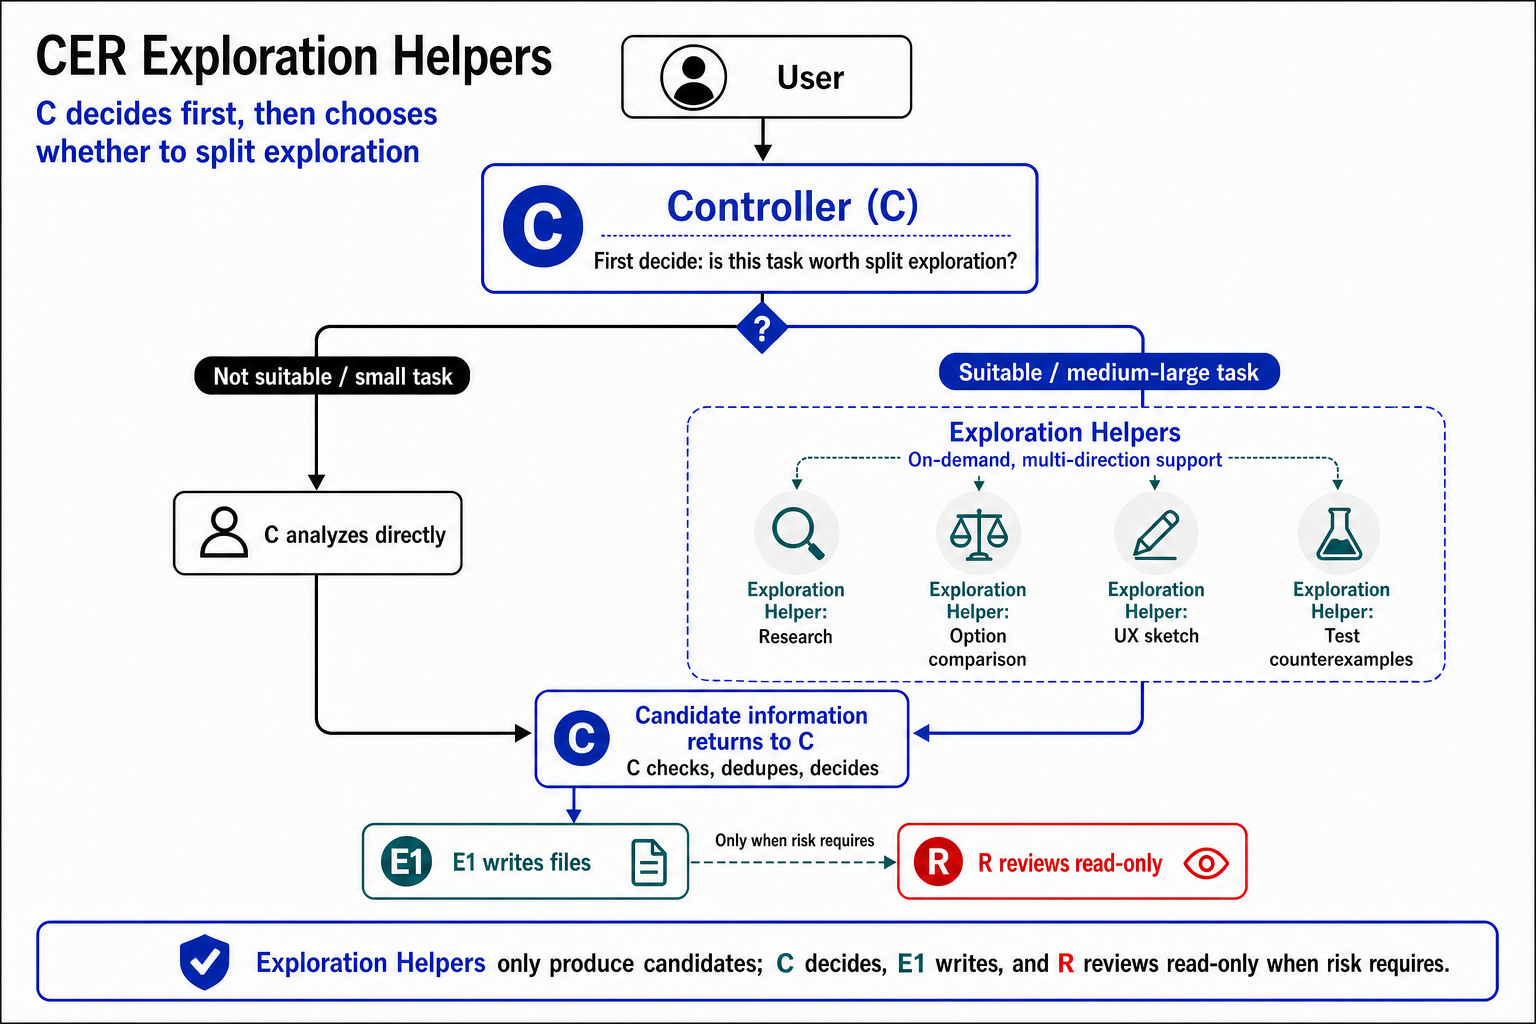
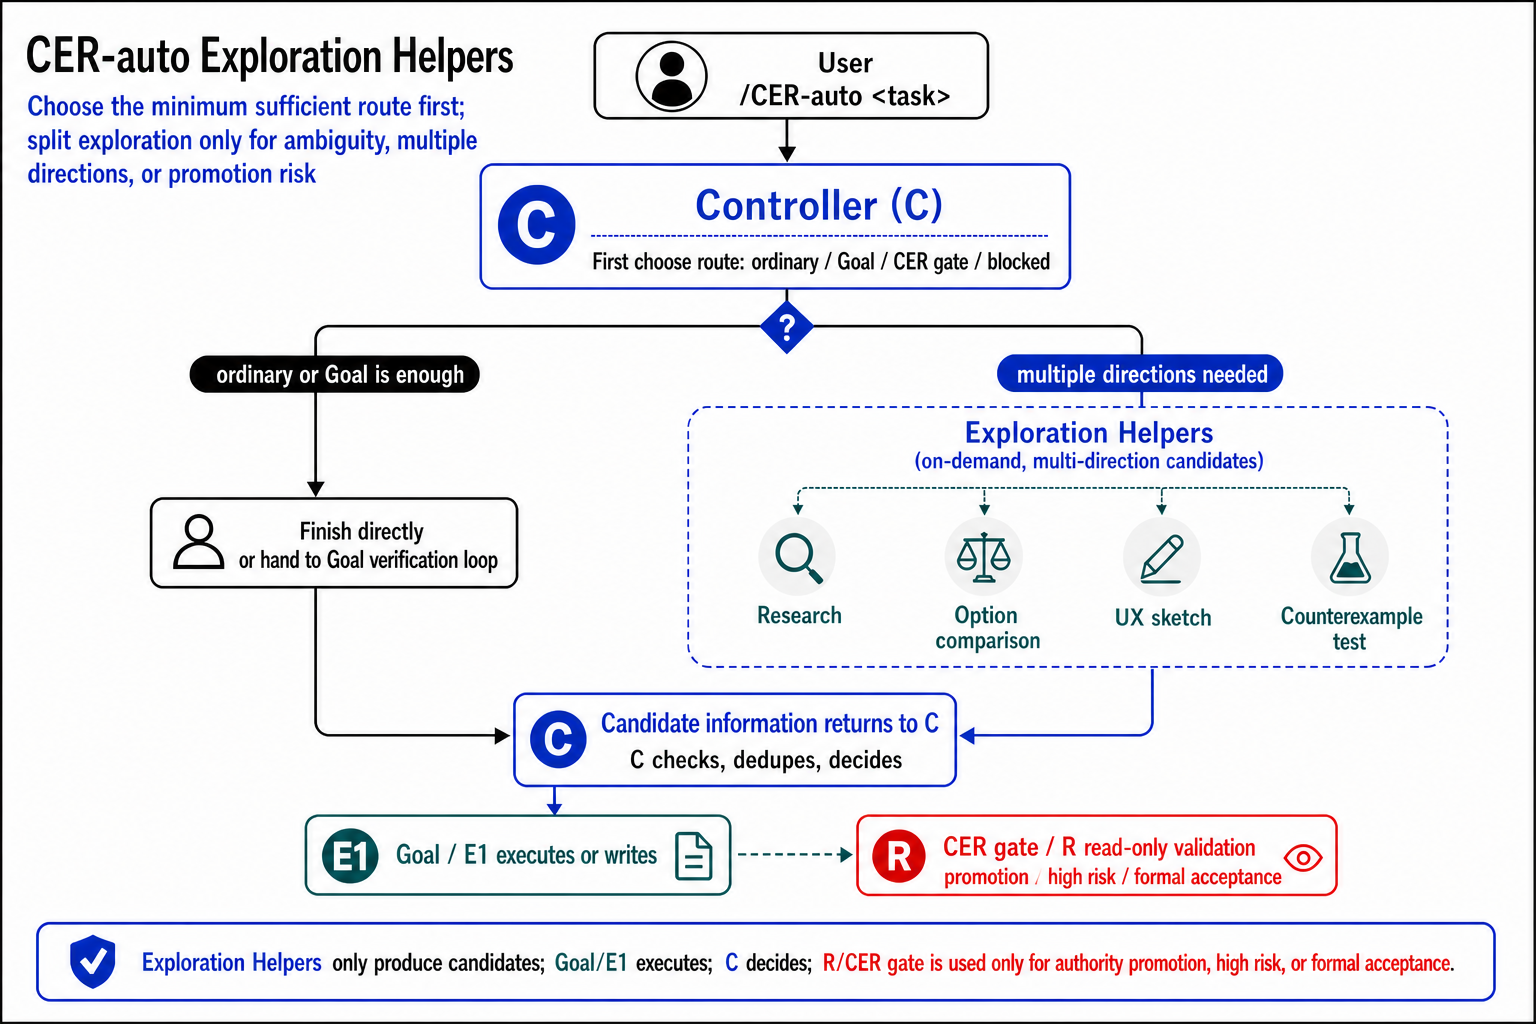
Release CER workflow v0.3.12

diff --git a/skills/cer-workflow-en/scripts/validate_cer_skill.py b/skills/cer-workflow-en/scripts/validate_cer_skill.py
@@ -51,6 +51,11 @@ EN_TRIGGER_MATRIX_EXPECTATIONS = {
     "auto_row": ("no C exists before the route decision", "Remote is unsupported in this first version"),
     "start_row": ("Plain start/work messages do not start CER",),
     "close_row": ("Plain close/finish messages do not close CER",),
+    "auto_help_template": (
+        "goal + constraints/do-not-do + acceptance + authority/source/authorization boundary",
+        "adapt it to the user's context rather than a fixed domain",
+        "before a formal decision, payment, publication, or external commitment, stop for a CER gate",
+    ),
     "startup_owner": ("Plain start/work messages belong to the target workspace's existing governance and are not CER triggers",),
     "stop_owner": ("Plain close/finish messages belong to the target workspace's existing governance and do not map to CER stop or close",),
     "uat_install_start": (
@@ -695,6 +700,12 @@ def trigger_matrix_findings(texts: dict[str, str]) -> list[str]:
             label,
             findings,
         )
+    assert_snippets_present(
+        markdown_section(skill, "## Commands"),
+        EN_TRIGGER_MATRIX_EXPECTATIONS["auto_help_template"],
+        "SKILL.md /CER-auto task template help",
+        findings,
+    )
     assert_snippets_present(
         markdown_section(core, "## Startup"),
         EN_TRIGGER_MATRIX_EXPECTATIONS["startup_owner"],

diff --git a/skills/cer-workflow/scripts/validate_cer_skill.py b/skills/cer-workflow/scripts/validate_cer_skill.py
@@ -51,6 +51,11 @@ ZH_TRIGGER_MATRIX_EXPECTATIONS = {
     "auto_row": ("路線裁決前不成立 C", "Remote 首版不支援"),
     "start_row": ("單獨 `開工` 不啟動 CER",),
     "close_row": ("單獨 `收工` 不觸發 CER close",),
+    "auto_help_template": (
+        "目標＋限制／不可做＋成功驗收＋權威來源／授權邊界",
+        "按使用者情境生成，不固定行業",
+        "如要作正式決策、付款、發布或外部承諾，先停下做 CER gate",
+    ),
     "startup_owner": ("單獨 `開工` 屬於目標 workspace 既有治理，不是 CER trigger",),
     "stop_owner": ("單獨 `收工` 屬於目標 workspace 既有治理，不映射為 CER stop 或 close",),
     "uat_install_start": (
@@ -695,6 +700,12 @@ def trigger_matrix_findings(texts: dict[str, str]) -> list[str]:
             label,
             findings,
         )
+    assert_snippets_present(
+        markdown_section(skill, "## 操作指令"),
+        ZH_TRIGGER_MATRIX_EXPECTATIONS["auto_help_template"],
+        "SKILL.md /CER-auto task template help",
+        findings,
+    )
     assert_snippets_present(
         markdown_section(core, "## 啟動"),
         ZH_TRIGGER_MATRIX_EXPECTATIONS["startup_owner"],

diff --git a/RELEASE_NOTES.en.md b/RELEASE_NOTES.en.md
@@ -5,6 +5,25 @@ has not entered an authorized release flow is explicitly marked as a candidate. 
 aborted, the affected content must be marked as candidate again or removed. Runtime authority
 remains the Skill references bundled with the version the user has installed.
 
+## v0.3.12
+
+This release turns the `/CER-auto` onboarding entrypoint and README visuals into a public-ready
+version. The main user-facing change is that new users can state the task first and let the Skill
+choose the minimum sufficient route; full CER remains available for work that explicitly needs it.
+
+- The README first screen now uses a `/CER-auto` four-route selector image covering ordinary
+  execution, Goal, CER-gated Goal/E1, and blocked
+- The README adds the `/CER-auto <task>` task shape: goal, constraints/do-not-do, acceptance, and
+  authority/source/authorization boundary
+- `cer-workflow-infographic.png` and `cer-exploration-helper-architecture.png` are updated to
+  CER-auto-aligned versions; legacy images are retained as `.legacy-20260810*` backups
+- `/CER-help` task-template guidance is aligned with the README, with examples adapted to the
+  user's context instead of a fixed domain
+- This release does not expand the runtime owner, add parallel rules, or replace explicit
+  `/CER-start`
+- Both language Skill packages are VERSION `0.3.12`, 8 files each, with 411 mutation cases passing
+- Post-release user manual UAT remains a separate follow-up
+
 ## v0.3.11
 
 This release adds the local `/CER-auto` entrypoint. Users can state the task first, and the Skill

diff --git a/RELEASE_NOTES.md b/RELEASE_NOTES.md
@@ -4,6 +4,23 @@
 flow 的未發布內容會明確標示為候選。若 release 中止，對應內容必須改回候選或移除。
 實際執行規則以使用者已安裝版本隨附的 Skill references 為準。
 
+## v0.3.12
+
+本版把 `/CER-auto` 的新手入口和 README 視覺說明整理成可公開版本。重點是讓新用戶
+先知道「直接提出任務」即可，由 Skill 選最低足夠路線；完整 CER 仍保留給明確需要
+full CER 的工作。
+
+- README 首屏改用 `/CER-auto` 四路線選擇圖，說明 ordinary execution、Goal、
+  CER-gated Goal/E1 和 blocked
+- README 補上 `/CER-auto <任務>` 的任務寫法：目標、限制／不可做、成功驗收、
+  權威來源／授權邊界
+- `cer-workflow-infographic.png` 和 `cer-exploration-helper-architecture.png`
+  已更新為 CER-auto 對齊版本；舊圖以 `.legacy-20260810*` 檔名保留
+- `/CER-help` 的 task-template 說明與 README 對齊，例子按用戶背景生成，不固定行業
+- 本版不擴張 runtime owner、不新增平行規則、不取代明示 `/CER-start`
+- 中英文 Skill packages 均為 VERSION `0.3.12`，各 8 files，411 mutation cases 通過
+- 發布後使用者手動 UAT 仍需另行回報
+
 ## v0.3.11
 
 本版加入本地 `/CER-auto` 入口，讓使用者只提出任務，由 Skill 先選最低足夠執行

diff --git a/README.en.md b/README.en.md
@@ -10,7 +10,7 @@ In plain language: when you discover halfway through that the direction, constra
 
 If you do not want to choose between ordinary chat, Goal, and CER up front, use `/CER-auto <task>` after installation. It first selects the minimum sufficient route: ordinary execution, Goal, CER-gated Goal/E1, or blocked because authority, safety, or acceptance conditions are missing.
 
-![Goal vs CER: 10 practical differences, with G/C badges showing which side is usually more suitable for workplace AI users](assets/goal-vs-cer-infographic.en.png)
+![CER-auto route selector: ordinary execution, Goal, CER-gated Goal/E1, and blocked](assets/cer-auto-routing-infographic.en.png)
 
 ## If You Are Not Sure Which Mode To Use
 
@@ -18,6 +18,12 @@ Use:
 
 ```text
 /CER-auto <goal, constraints, priorities>
+```
+
+A stronger task shape is: `goal + constraints/do-not-do + acceptance + authority/source/authorization boundary`. Examples do not need to use a fixed domain; Codex should adapt the wording to your background, material, and current work.
+
+```text
+/CER-auto help me compare/organize/fix <my material or problem>; do not <forbidden action>; success means <verifiable output>; before a formal decision, payment, publication, or external commitment, stop for a CER gate.
 ```
 
 Codex first replies with one route:

diff --git a/README.md b/README.md
@@ -10,7 +10,7 @@ CER 是給 Codex 用的工作法 Skill。它不取代普通對話，也不取代
 
 如果你不想一開始就判斷該用普通對話、Goal 還是 CER，安裝後可先用 `/CER-auto <任務>`。它會先選最低足夠路線：普通執行、Goal、CER-gated Goal/E1，或因缺少權威／安全／驗收條件而 blocked。
 
-![Goal 與 CER 工作法：10 個實際分別，並以 G／C 標出一般 workplace AI 用戶較適合的一方](assets/goal-vs-cer-infographic.png)
+![CER-auto 四路線選擇圖：ordinary execution、Goal、CER-gated Goal/E1 和 blocked](assets/cer-auto-routing-infographic.png)
 
 ## 不確定用哪一種時
 
@@ -18,6 +18,12 @@ CER 是給 Codex 用的工作法 Skill。它不取代普通對話，也不取代
 
 ```text
 /CER-auto <你想完成的事、限制、優先順序>
+```
+
+較好的任務寫法是：`目標＋限制／不可做＋成功驗收＋權威來源／授權邊界`。例子不需要固定行業；Codex 會按你的背景、資料和當前工作生成合適寫法。
+
+```text
+/CER-auto 幫我比較/整理/修補 <我的資料或問題>；不要 <不可做的事>；成功條件是 <可驗收成果>；如要作正式決策、付款、發布或外部承諾，先停下做 CER gate。
 ```
 
 Codex 會先回一行路線：

diff --git a/skills/cer-workflow-en/SKILL.md b/skills/cer-workflow-en/SKILL.md
@@ -44,6 +44,8 @@ Slash commands are text aliases. If the platform has no command UI, pasting the 
 | `/CER-status` | `Show CER status.` | Report only C's known state, coordinates, checkpoint, and blockers; do not poll. |
 | `/CER-help` | `Show CER commands.` | Show this table. |
 
+`/CER-auto` task shape: use `goal + constraints/do-not-do + acceptance + authority/source/authorization boundary`. When an example is needed, adapt it to the user's context rather than a fixed domain: `/CER-auto help me compare/organize/fix <my material or problem>; do not <forbidden action>; success means <verifiable output>; before a formal decision, payment, publication, or external commitment, stop for a CER gate.`
+
 ## Entry Boundaries
 
 - The complete unique-C startup gate is owned by `core-runtime.md`: Candidate `C_READY` plus sender readback is still insufficient; the receiver becomes the active Controller (C) only after actually receiving `C_ACCEPTED`.

diff --git a/skills/cer-workflow/SKILL.md b/skills/cer-workflow/SKILL.md
@@ -40,6 +40,8 @@ slash command 是文字別名；平台不支援時，直接貼上同一句仍有
 | `/CER-status` | `顯示 CER 狀態。` | 只報 C 已知狀態、座標、停點及阻礙；不輪詢。 |
 | `/CER-help` | `顯示 CER 指令。` | 顯示本表。 |
 
+`/CER-auto` 任務寫法：用 `目標＋限制／不可做＋成功驗收＋權威來源／授權邊界`。需要例子時，按使用者情境生成，不固定行業：`/CER-auto 幫我比較/整理/修補 <你的資料或問題>；不要 <不可做的事>；成功條件是 <可驗收成果>；如要作正式決策、付款、發布或外部承諾，先停下做 CER gate。`
+
 ## 入口邊界
 
 - 完整唯一 C 啟動閘門由 `core-runtime.md` 擁有：candidate `C_READY` 與發送方讀回仍不足夠；
